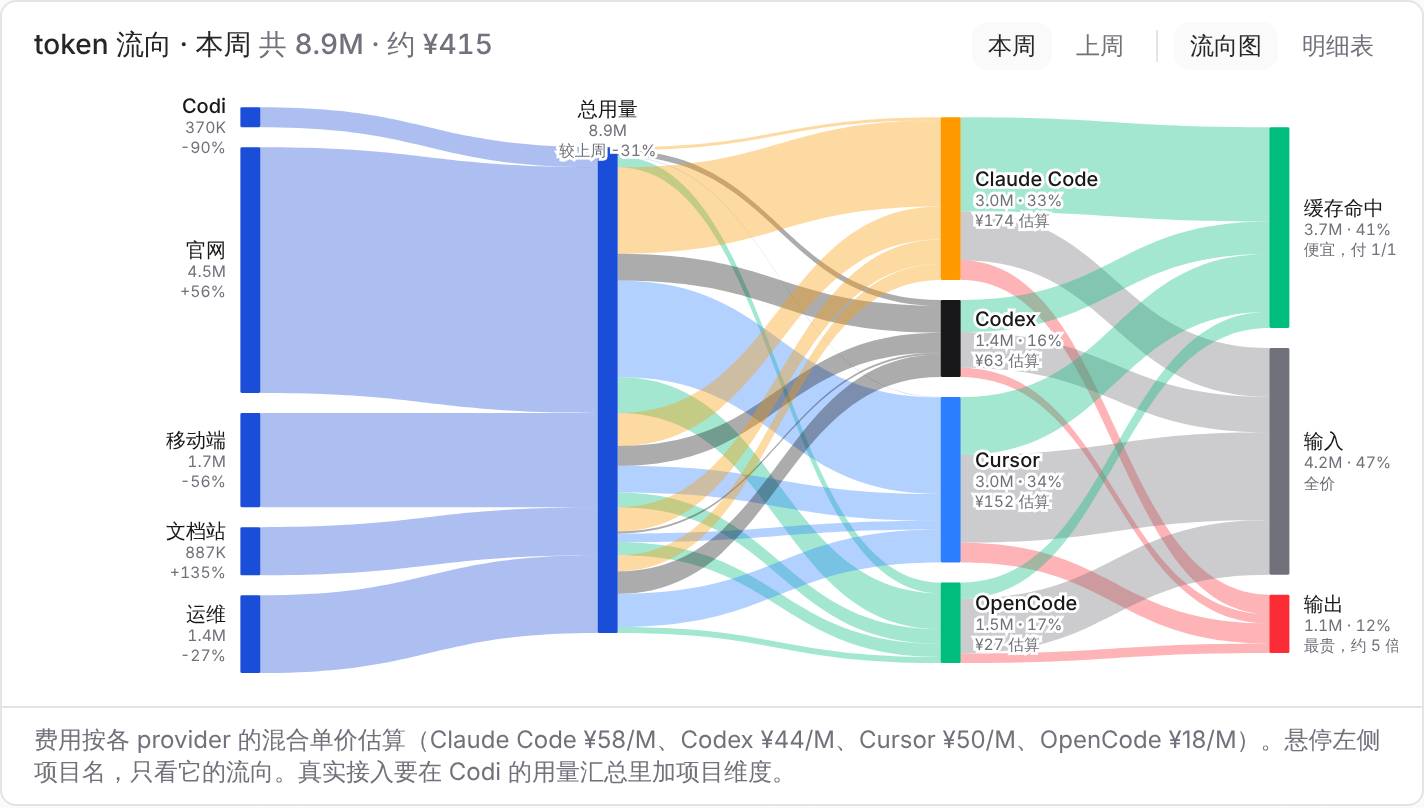
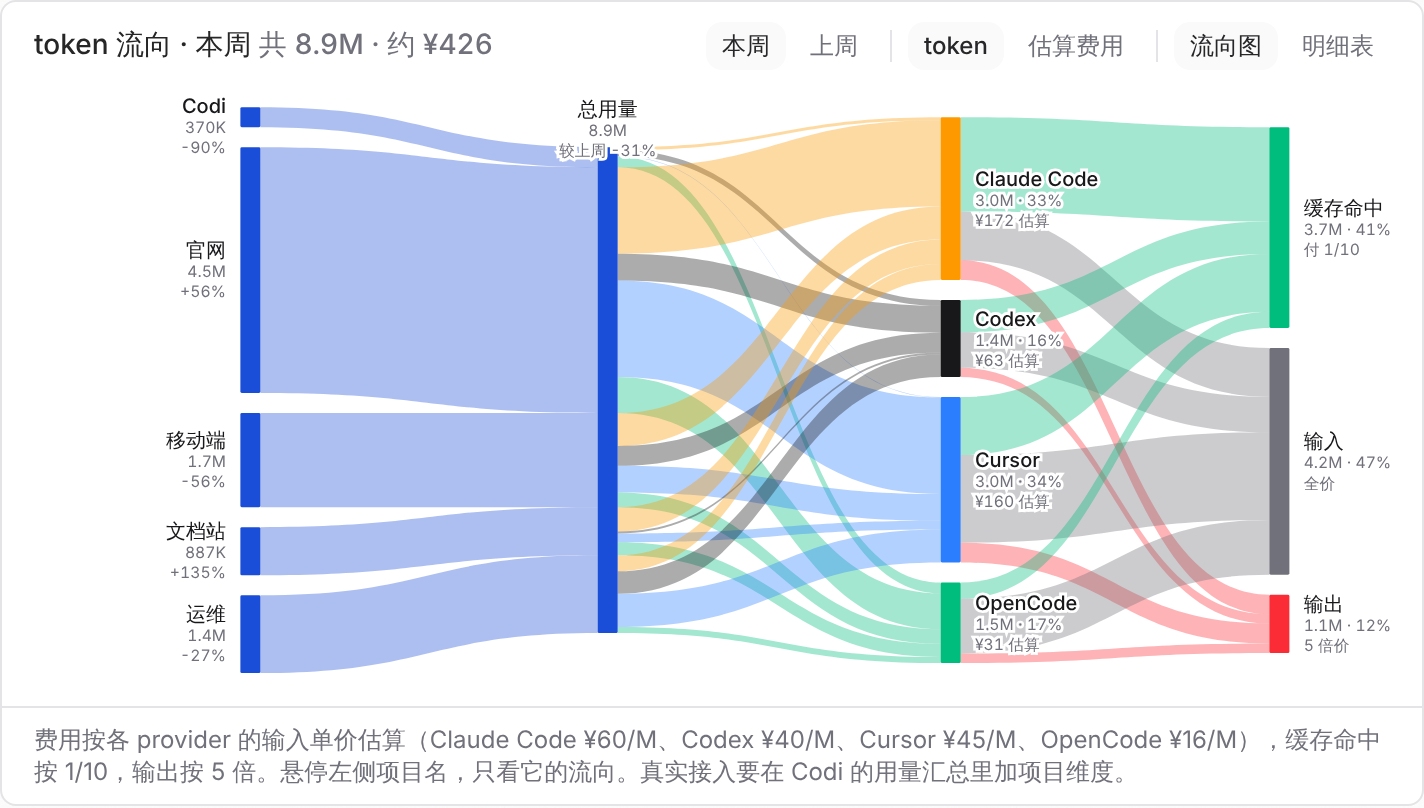
feat(web): prototype token flow switches between tokens and estimated cost
The sankey only showed tokens, so the expensive part of the flow was
invisible. A token / 估算费用 toggle now reprices every band: cache hits at
a tenth, output at five times the provider's input price. The table follows
the same toggle.

Claude-Session: https://claude.ai/code/session_01MgnAhKKrFbv2bkjf8HZXYG

diff --git a/apps/web/src/components/prototype/LighthouseTokenFlow.tsx b/apps/web/src/components/prototype/LighthouseTokenFlow.tsx
@@ -8,18 +8,21 @@ import { Button } from "../ui/button";
 import { Table, TableBody, TableCell, TableHead, TableHeader, TableRow } from "../ui/table";
 import { projectName } from "./LighthouseWork";
 
+/** yuanPerM is the input price; cache hits and output are priced by the type multipliers. */
 const PROVIDERS = [
-  { id: "claude", label: "Claude Code", yuanPerM: 58, color: "var(--warning)", cache: 0.58 },
-  { id: "codex", label: "Codex", yuanPerM: 44, color: "var(--foreground)", cache: 0.42 },
-  { id: "cursor", label: "Cursor", yuanPerM: 50, color: "var(--info)", cache: 0.35 },
-  { id: "opencode", label: "OpenCode", yuanPerM: 18, color: "var(--success)", cache: 0.2 },
+  { id: "claude", label: "Claude Code", yuanPerM: 60, color: "var(--warning)", cache: 0.58 },
+  { id: "codex", label: "Codex", yuanPerM: 40, color: "var(--foreground)", cache: 0.42 },
+  { id: "cursor", label: "Cursor", yuanPerM: 45, color: "var(--info)", cache: 0.35 },
+  { id: "opencode", label: "OpenCode", yuanPerM: 16, color: "var(--success)", cache: 0.2 },
 ] as const;
 
 const TYPES = [
-  { id: "cache", label: "缓存命中", note: "便宜，付 1/10", color: "var(--success)" },
-  { id: "input", label: "输入", note: "全价", color: "var(--muted-foreground)" },
-  { id: "output", label: "输出", note: "最贵，约 5 倍", color: "var(--destructive)" },
+  { id: "cache", label: "缓存命中", note: "付 1/10", color: "var(--success)", mult: 0.1 },
+  { id: "input", label: "输入", note: "全价", color: "var(--muted-foreground)", mult: 1 },
+  { id: "output", label: "输出", note: "5 倍价", color: "var(--destructive)", mult: 5 },
 ] as const;
+
+type Unit = "tokens" | "cost";
 
 function seeded(seed: string) {
   let h = 2166136261;
@@ -48,8 +51,15 @@ function split(k: number, provider: (typeof PROVIDERS)[number]) {
 }
 
 const sum = (xs: ReadonlyArray<number>) => xs.reduce((s, v) => s + v, 0);
-const fmtK = (k: number) => (k >= 1000 ? `${(k / 1000).toFixed(1)}M` : `${k}K`);
-const fmtYuan = (k: number, yuanPerM: number) => `¥${Math.round((k / 1000) * yuanPerM)}`;
+
+/** Yuan for k thousand tokens of one provider, priced per token type. */
+function costOf(k: number, provider: (typeof PROVIDERS)[number]) {
+  const parts = split(k, provider);
+  return sum(TYPES.map((t) => (parts[t.id] / 1000) * provider.yuanPerM * t.mult));
+}
+
+const fmtK = (k: number) => (k >= 1000 ? `${(k / 1000).toFixed(1)}M` : `${Math.round(k)}K`);
+const fmtYuan = (y: number) => `¥${Math.round(y)}`;
 const fmtDelta = (now: number, before: number) =>
   before === 0 ? "" : `${now >= before ? "+" : ""}${Math.round(((now - before) / before) * 100)}%`;
 
@@ -99,30 +109,44 @@ function band(x0: number, y0: number, x1: number, y1: number, h: number) {
 function Sankey({
   projects,
   week,
+  unit,
   focus,
   onFocus,
 }: {
   projects: ReadonlyArray<string>;
   week: 0 | 1;
+  unit: Unit;
   focus: string | null;
   onFocus: (project: string | null) => void;
 }) {
   const rows = projects.map((p) => ({ id: p, cells: usage(p, week), before: usage(p, 1) }));
-  const byProvider = PROVIDERS.map((_, i) => sum(rows.map((r) => r.cells[i]!)));
+  const tokensBy = PROVIDERS.map((_, i) => sum(rows.map((r) => r.cells[i]!)));
+  const costBy = PROVIDERS.map((p, i) => costOf(tokensBy[i]!, p));
+  // In cost mode every band carries yuan; a project's share of a provider is priced at that
+  // provider's average rate, so the bands still add up through the chart.
+  const val = (k: number, i: number) =>
+    unit === "tokens" ? k : tokensBy[i] === 0 ? 0 : (k * costBy[i]!) / tokensBy[i]!;
+  const typeVal = (k: number, p: (typeof PROVIDERS)[number], t: (typeof TYPES)[number]) =>
+    unit === "tokens" ? split(k, p)[t.id] : (split(k, p)[t.id] / 1000) * p.yuanPerM * t.mult;
+  const fmt = unit === "tokens" ? fmtK : fmtYuan;
+  const other = unit === "tokens" ? fmtYuan : fmtK;
+  const byProvider = unit === "tokens" ? tokensBy : costBy;
   const grand = sum(byProvider);
-  const beforeGrand = sum(rows.flatMap((r) => r.before));
-  const typeTotals = TYPES.map((t) => sum(PROVIDERS.map((p, i) => split(byProvider[i]!, p)[t.id])));
+  const projectValue = (cells: ReadonlyArray<number>) => sum(cells.map((k, i) => val(k, i)));
+  const beforeGrand = sum(rows.map((r) => projectValue(r.before)));
+  const typeTotals = TYPES.map((t) => sum(PROVIDERS.map((p, i) => typeVal(tokensBy[i]!, p, t))));
+  const share = (v: number) => `${Math.round((v / grand) * 100)}%`;
   const scale = (H - GAP * (Math.max(rows.length, PROVIDERS.length) - 1) - 24) / grand;
 
   const nodes: Node[] = [
     ...rows.map((r) => ({
       key: `p:${r.id}`,
       col: 0,
-      value: sum(r.cells),
+      value: projectValue(r.cells),
       y: 0,
       color: "var(--primary)",
       title: projectName(r.id),
-      lines: [fmtK(sum(r.cells)), fmtDelta(sum(r.cells), sum(r.before))],
+      lines: [fmt(projectValue(r.cells)), fmtDelta(projectValue(r.cells), projectValue(r.before))],
     })),
     {
       key: "total",
@@ -130,8 +154,8 @@ function Sankey({
       value: grand,
       y: 0,
       color: "var(--primary)",
-      title: "总用量",
-      lines: [fmtK(grand), `较上周 ${fmtDelta(grand, beforeGrand) || "无"}`],
+      title: unit === "tokens" ? "总用量" : "总费用",
+      lines: [fmt(grand), `较上周 ${fmtDelta(grand, beforeGrand) || "无"}`],
     },
     ...PROVIDERS.map((p, i) => ({
       key: `h:${p.id}`,
@@ -141,8 +165,8 @@ function Sankey({
       color: p.color,
       title: p.label,
       lines: [
-        `${fmtK(byProvider[i]!)} · ${Math.round((byProvider[i]! / grand) * 100)}%`,
-        `${fmtYuan(byProvider[i]!, p.yuanPerM)} 估算`,
+        `${fmt(byProvider[i]!)} · ${share(byProvider[i]!)}`,
+        unit === "tokens" ? `${other(costBy[i]!)} 估算` : other(tokensBy[i]!),
       ],
     })),
     ...TYPES.map((t, i) => ({
@@ -152,7 +176,7 @@ function Sankey({
       y: 0,
       color: t.color,
       title: t.label,
-      lines: [`${fmtK(typeTotals[i]!)} · ${Math.round((typeTotals[i]! / grand) * 100)}%`, t.note],
+      lines: [`${fmt(typeTotals[i]!)} · ${share(typeTotals[i]!)}`, t.note],
     })),
   ];
   stack(nodes, scale);
@@ -162,7 +186,7 @@ function Sankey({
     ...rows.map((r) => ({
       from: `p:${r.id}`,
       to: "total",
-      value: sum(r.cells),
+      value: projectValue(r.cells),
       color: "var(--primary)",
       project: r.id,
     })),
@@ -170,7 +194,7 @@ function Sankey({
       PROVIDERS.map((p, i) => ({
         from: "total",
         to: `h:${p.id}`,
-        value: r.cells[i]!,
+        value: val(r.cells[i]!, i),
         color: p.color,
         project: r.id,
       })),
@@ -179,7 +203,7 @@ function Sankey({
       TYPES.map((t) => ({
         from: `h:${p.id}`,
         to: `t:${t.id}`,
-        value: split(byProvider[i]!, p)[t.id],
+        value: typeVal(tokensBy[i]!, p, t),
         color: t.color,
         project: null,
       })),
@@ -288,13 +312,14 @@ function Sankey({
 export function TokenFlow({ projects }: { projects: ReadonlyArray<string> }) {
   const [week, setWeek] = useState<0 | 1>(0);
   const [view, setView] = useState<"chart" | "table">("chart");
+  const [unit, setUnit] = useState<Unit>("tokens");
   const [focus, setFocus] = useState<string | null>(null);
   const rows = projects.map((p) => ({ id: p, cells: usage(p, week), before: usage(p, 1) }));
   const colTotals = PROVIDERS.map((_, i) => sum(rows.map((r) => r.cells[i]!)));
   const grand = sum(colTotals);
   const max = Math.max(1, ...rows.flatMap((r) => r.cells));
   const cost = (cells: ReadonlyArray<number>) =>
-    `¥${Math.round(sum(cells.map((v, i) => (v / 1000) * PROVIDERS[i]!.yuanPerM)))}`;
+    fmtYuan(sum(cells.map((v, i) => costOf(v, PROVIDERS[i]!))));
 
   return (
     <div className="rounded-lg border bg-card">
@@ -323,6 +348,21 @@ export function TokenFlow({ projects }: { projects: ReadonlyArray<string> }) {
           <span className="mx-1 h-4 w-px bg-border" />
           <Button
             size="xs"
+            variant={unit === "tokens" ? "secondary" : "ghost-muted"}
+            onClick={() => setUnit("tokens")}
+          >
+            token
+          </Button>
+          <Button
+            size="xs"
+            variant={unit === "cost" ? "secondary" : "ghost-muted"}
+            onClick={() => setUnit("cost")}
+          >
+            估算费用
+          </Button>
+          <span className="mx-1 h-4 w-px bg-border" />
+          <Button
+            size="xs"
             variant={view === "chart" ? "secondary" : "ghost-muted"}
             onClick={() => setView("chart")}
           >
@@ -339,7 +379,7 @@ export function TokenFlow({ projects }: { projects: ReadonlyArray<string> }) {
       </div>
       {view === "chart" ? (
         <div className="px-3 pb-2">
-          <Sankey projects={projects} week={week} focus={focus} onFocus={setFocus} />
+          <Sankey projects={projects} week={week} unit={unit} focus={focus} onFocus={setFocus} />
         </div>
       ) : (
         <Table>
@@ -352,7 +392,7 @@ export function TokenFlow({ projects }: { projects: ReadonlyArray<string> }) {
                 </TableHead>
               ))}
               <TableHead className="text-end">合计</TableHead>
-              <TableHead className="text-end">估算费用</TableHead>
+              <TableHead className="text-end">{unit === "tokens" ? "估算费用" : "token"}</TableHead>
               <TableHead className="text-end">较上周</TableHead>
             </TableRow>
           </TableHeader>
@@ -370,15 +410,19 @@ export function TokenFlow({ projects }: { projects: ReadonlyArray<string> }) {
                           background: `color-mix(in oklab, var(--primary) ${Math.round((k / max) * 42)}%, transparent)`,
                         }}
                       >
-                        {fmtK(k)}
+                        {unit === "tokens" ? fmtK(k) : fmtYuan(costOf(k, PROVIDERS[i]!))}
                       </span>
                     </TableCell>
                   ))}
                   <TableCell className="text-end">
-                    <span className="font-medium tabular-nums">{fmtK(sum(r.cells))}</span>
+                    <span className="font-medium tabular-nums">
+                      {unit === "tokens" ? fmtK(sum(r.cells)) : cost(r.cells)}
+                    </span>
                   </TableCell>
                   <TableCell className="text-end">
-                    <span className="tabular-nums">{cost(r.cells)}</span>
+                    <span className="tabular-nums">
+                      {unit === "tokens" ? cost(r.cells) : fmtK(sum(r.cells))}
+                    </span>
                   </TableCell>
                   <TableCell className="text-end">
                     <span
@@ -399,14 +443,20 @@ export function TokenFlow({ projects }: { projects: ReadonlyArray<string> }) {
               </TableCell>
               {colTotals.map((k, i) => (
                 <TableCell key={PROVIDERS[i]!.id} className="text-end">
-                  <span className="font-medium tabular-nums">{fmtK(k)}</span>
+                  <span className="font-medium tabular-nums">
+                    {unit === "tokens" ? fmtK(k) : fmtYuan(costOf(k, PROVIDERS[i]!))}
+                  </span>
                 </TableCell>
               ))}
               <TableCell className="text-end">
-                <span className="font-medium tabular-nums">{fmtK(grand)}</span>
+                <span className="font-medium tabular-nums">
+                  {unit === "tokens" ? fmtK(grand) : cost(colTotals)}
+                </span>
               </TableCell>
               <TableCell className="text-end">
-                <span className="font-medium tabular-nums">{cost(colTotals)}</span>
+                <span className="font-medium tabular-nums">
+                  {unit === "tokens" ? cost(colTotals) : fmtK(grand)}
+                </span>
               </TableCell>
               <TableCell />
             </TableRow>
@@ -414,8 +464,9 @@ export function TokenFlow({ projects }: { projects: ReadonlyArray<string> }) {
         </Table>
       )}
       <div className="border-t px-4 py-2 text-xs text-muted-foreground">
-        费用按各 provider 的混合单价估算（Claude Code ¥58/M、Codex ¥44/M、Cursor ¥50/M、OpenCode
-        ¥18/M）。悬停左侧项目名，只看它的流向。真实接入要在 Codi 的用量汇总里加项目维度。
+        费用按各 provider 的输入单价估算（Claude Code ¥60/M、Codex ¥40/M、Cursor ¥45/M、OpenCode
+        ¥16/M），缓存命中按 1/10，输出按 5 倍。悬停左侧项目名，只看它的流向。真实接入要在 Codi
+        的用量汇总里加项目维度。
       </div>
     </div>
   );
